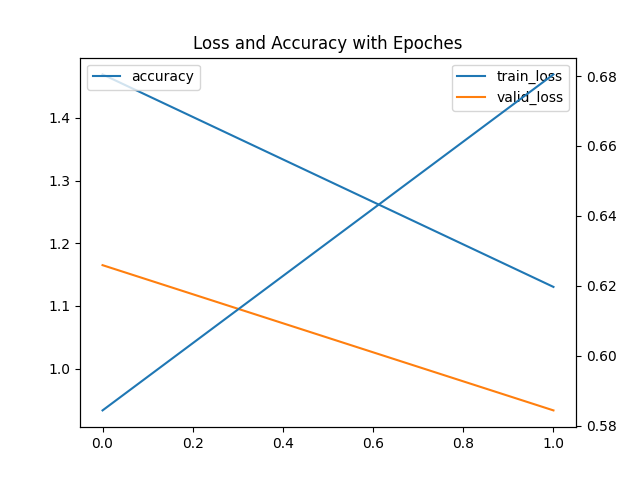
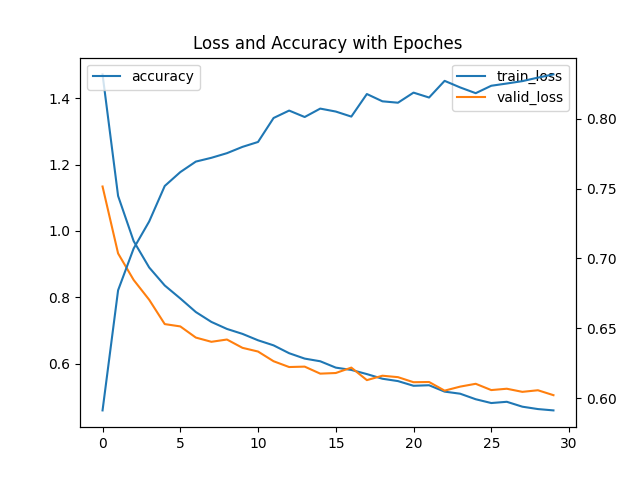
new_try

diff --git a/main.py b/main.py
@@ -9,19 +9,22 @@ import os
 
 device = torch.device("xpu" if torch.xpu.is_available() else "cpu")
 
+# 加载数据
 train_data, test_data = data_loader.data_loader()
 train_data_load = DataLoader(dataset=train_data, batch_size=64,
                                shuffle=True, drop_last=True)
 test_data_load = DataLoader(dataset=test_data, batch_size=64,
                               shuffle=True, drop_last=True)
 
+# 设置，详见module.py文件中的注释
 mynet = module.mynet.to(device)
 loss_fn = module.loss_fn.to(device)
 optim = module.optim
 
 if __name__ == "__main__":
-    epochs = 2
+    epochs = 30
 
+    # 为绘图准备的列表
     train_loss_plt = []
     test_loss_plt = []
     acc_plt = []
@@ -32,6 +35,8 @@ if __name__ == "__main__":
         train_step = 0
         mynet.train()
         losses = []
+
+        # 训练过程
         for j, (imgs, labels) in enumerate(train_data_load):
             imgs = imgs.to(device)
             labels = labels.to(device)
@@ -51,6 +56,7 @@ if __name__ == "__main__":
 
         train_loss_plt.append(sum(losses) / len(losses))
 
+        # 验证过程
         mynet.eval()
         accuracy = 0
         total_accuracy = 0
@@ -85,9 +91,11 @@ if __name__ == "__main__":
 
             print("Epoch %d, accuracy: %f" % (epoch + 1,
                                                    average_accuracy))
+            # 导出训练模型
             os.makedirs(os.path.join(os.getcwd(), 'models'), exist_ok=True)
             torch.save(mynet, f'./models/E_{epoch + 1}_acc_{average_accuracy}.pth')
 
+    # 绘图
     train_loss_plt, test_loss_plt, acc_plt =\
         plot.to_numpy(train_loss_plt), plot.to_numpy(test_loss_plt), plot.to_numpy(acc_plt)
 

diff --git a/module.py b/module.py
@@ -8,10 +8,11 @@ class MyNet(nn.Module):
         super(MyNet, self).__init__()
 
         self.main = nn.Sequential(
-            nn.Conv2d(in_channels=3, out_channels=32, kernel_size=3, stride=1, padding=1),
-            nn.ReLU(),
-            nn.MaxPool2d(kernel_size=2, stride=2),
-            nn.BatchNorm2d(num_features=32),
+            nn.Conv2d(in_channels=3, out_channels=32, kernel_size=3,
+                      stride=1, padding=1),# 卷积
+            nn.ReLU(),# 取代sigmod
+            nn.MaxPool2d(kernel_size=2, stride=2),# 最大池化
+            nn.BatchNorm2d(num_features=32),# 标准化
 
             nn.Conv2d(in_channels=32, out_channels=64, kernel_size=3, stride=1, padding=1),
             nn.ReLU(),
@@ -25,11 +26,11 @@ class MyNet(nn.Module):
         )
 
         self.fc = nn.Sequential(
-            nn.Flatten(),
+            nn.Flatten(),# 铺平
 
             nn.Linear(in_features=128 * 4 * 4, out_features=1024),
             nn.ReLU(inplace=True),
-            nn.Dropout(p=0.5),
+            nn.Dropout(p=0.5),# 神经元随机失活
 
             # nn.Linear(in_features=1024, out_features=512),
             # nn.ReLU(inplace=True),
@@ -56,8 +57,8 @@ class MyNet(nn.Module):
 
 learning_rate = 1e-3
 mynet = MyNet()
-loss_fn = nn.CrossEntropyLoss()
-optim = torch.optim.Adam(mynet.parameters(), lr=learning_rate)
+loss_fn = nn.CrossEntropyLoss() # 损失函数：交叉熵
+optim = torch.optim.Adam(mynet.parameters(), lr=learning_rate)# Adam加速
 
 
 if __name__ == '__main__':

diff --git a/plot.py b/plot.py
@@ -2,6 +2,8 @@ from matplotlib import pyplot as plt
 import os
 import torch
 
+# 为了避免matplotlib无法直接处理gpu上的list
+# 将其转换为cpu上的numpy
 def to_numpy(data):
     if isinstance(data, list):
         data = torch.tensor(data)
@@ -9,18 +11,24 @@ def to_numpy(data):
         return data.detach().cpu().numpy()
     return data
 
+# 绘图函数
 def loss_plt(train_loss, valid_loss, accuracy):
 
+    # 左侧：Loss
     fig, plt1 = plt.subplots()
     plt1.plot(train_loss, label='train_loss')
     plt1.plot(valid_loss, label='valid_loss')
+    plt1.set_ylabel('loss')
     plt1.legend()
 
+    # 右侧：准确率
     plt2 = plt1.twinx()
     plt2.plot(accuracy, label='accuracy')
+    plt2.set_ylabel('accuracy')
     plt2.legend()
 
     plt.title('Loss and Accuracy with Epoches')
+    plt.xlabel('Epoch')
 
     os.makedirs(os.path.join(os.getcwd(), 'plots'), exist_ok=True)
     plt.savefig(os.path.join(os.getcwd(), 'plots/loss_and_acc.png'))

diff --git a/referrences/chatgpt_help.py b/referrences/chatgpt_help.py
@@ -50,3 +50,24 @@ import shutil
 # # 显示图形
 # plt.title('Two Y axes with different scales')
 # plt.show()
+
+#
+# directory = "models"
+# pattern = re.compile(r'acc_([\d.]+)')
+#
+# best_acc = -1
+# best_model = None
+#
+# for filename in os.listdir(directory):
+#     match = pattern.search(filename)
+#     if match:
+#         acc_str = match.group(1).rstrip('.')
+#         try:
+#             acc = float(acc_str)
+#             if acc > best_acc:
+#                 best_acc = acc
+#                 best_model = os.path.join(directory, filename)
+#         except ValueError:
+#             print(f"error: {acc_str} ({filename})")
+#
+# print(f"using model: {best_model}")

diff --git a/data_loader.py b/data_loader.py
@@ -8,10 +8,11 @@ def data_loader():
         train=True,
         transform=torchvision.transforms.Compose([
             torchvision.transforms.RandomCrop(size=(32, 32), padding=4),# 随机裁剪
-            torchvision.transforms.RandomHorizontalFlip(p=0.5),# suijifanzhuan
+            torchvision.transforms.RandomHorizontalFlip(p=0.5),# 随机翻转
             torchvision.transforms.ToTensor(),
             torchvision.transforms.Normalize(mean=[0.4914, 0.4822, 0.4465],
                                              std=[0.2023, 0.1994, 0.2010]),
+            # 标准化
 
         ]),
     download = True,

diff --git a/application.py b/application.py
@@ -1,3 +1,8 @@
+# 使用说明：
+# 此程序将会自动使用models文件夹下的准确率最高的模型
+
+# 将待预测的图片命名为 app.png ，置于此项目根目录下，运行程序，即可得到运行结果
+
 import os
 import torch
 from PIL import Image

diff --git a/README.md b/README.md
@@ -1,4 +1,3 @@
-# 这个旧版本已经放弃继续研究了
 # Comsen
 ## 华中科技大学光学与电子信息学院2409陈恪瑾
 ### 项目概述
@@ -9,36 +8,35 @@ torch.datasets.CIFAR10
 #### 使用模型
 基于pytroch的LeNet
 
-[model.py](v_1/model.py)
 #### requirements
-[requirements.txt](v_1/requirements.txt)
+[requirements.txt](requirements.txt)
 
+##### 关于安装intel的gpu加速
 * conda install libuv
 python -m pip install torch==2.5.1.post0+cxx11.abi torchvision==0.20.1.post0+cxx11.abi torchaudio==2.5.1.post0+cxx11.abi intel-extension-for-pytorch==2.5.10.post0+xpu --extra-index-url https://pytorch-extension.intel.com/release-whl/stable/arl/us/
 
 #### 主要参考文献（代码参考）
-张奥森, Zachary C. Lipton, 李沐, Alexander J. Smola. 动手学深度学习[M]. 机械工业出版社, 2021.
+* 张奥森, Zachary C. Lipton, 李沐, Alexander J. Smola. 动手学深度学习[M]. 机械工业出版社, 2021.
 
-[lenet.ipynb](referrences/lenet.ipynb)
+* [lenet.ipynb](referrences/lenet.ipynb)
 
-https://www.cnblogs.com/xiaoxing-chen/p/18537910
+* https://www.cnblogs.com/xiaoxing-chen/p/18537910
 ### 项目成果
+* 使用项目成果，请直接运行[application.py](application.py)
 #### 源代码
-训练代码：
-[model_train.py](v_1/model_train.py)
-
-测试代码：
-[model_test.py](v_1/model_test.py)
+* 加载数据[data_loader.py](data_loader.py)
+* 建立模型[module.py](module.py)
+* 训练[main.py](main.py)
+* 展示训练效果[plot.py](plot.py)
+* 实际应用[application.py](application.py)
 #### 训练数据
-[cifar-10-batches-py](data/test/cifar-10-batches-py)
+* 训练集[cifar-10-python.tar.gz](data/train/cifar-10-python.tar.gz)
+* 测试集[cifar-10-python.tar.gz](data/test/cifar-10-python.tar.gz)
 
-[cifar-10-batches-py](data/train/cifar-10-batches-py)
-#### 预测结果
-[model_test.py](v_1/model_test.py)
 #### 导出模型
-[best_model.pth](v_1/module/best_model.pth)
+* [models](models)
 #### 训练可视化曲线图
-[plots](v_1/plots)
+* [plots](plots)
 
 
  

diff --git a/v_1/README.md b/v_1/README.md
@@ -1,0 +1,1 @@
+# 被放弃的旧版本
